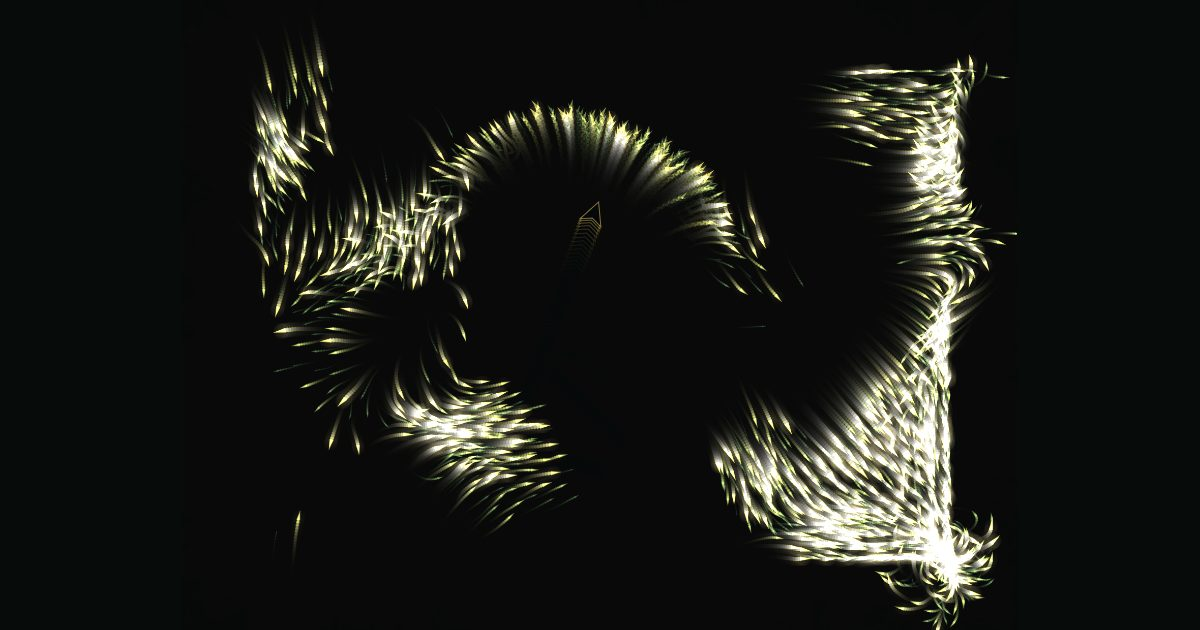
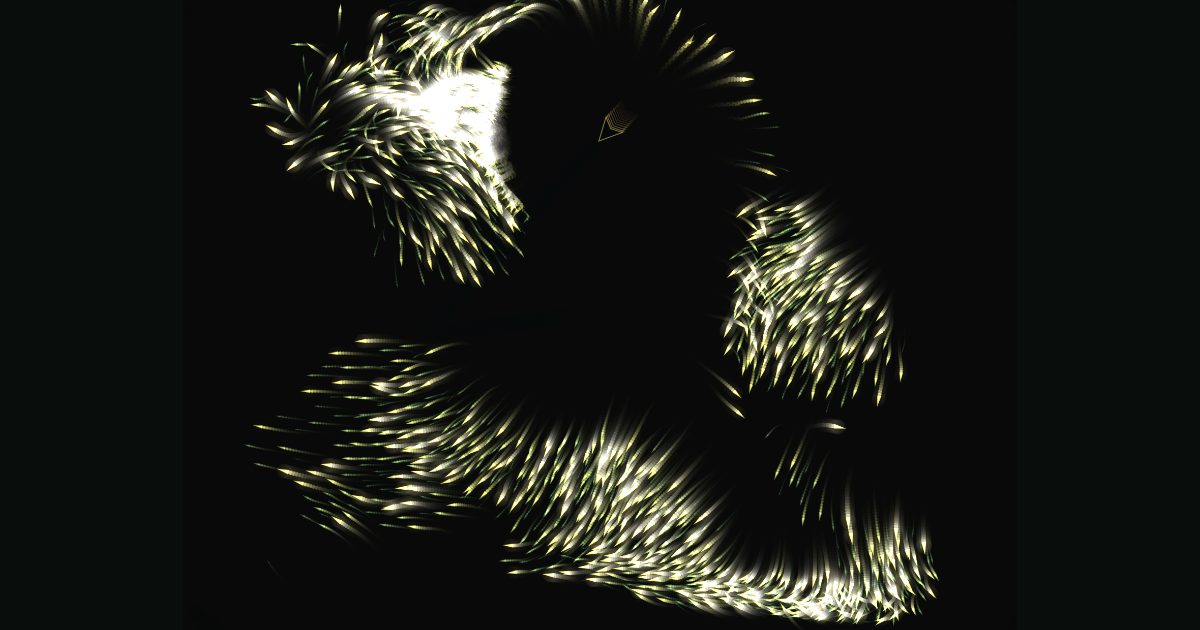
Murmuration: organic flock edges instead of straight walls
A constant steering push that switched on at a fixed 70 px margin stacked the
birds into straight walls along that line. The turn now grows linearly with
depth into a 100 px margin. Stage fits the window; new OG capture.

diff --git a/13-murmuration/index.html b/13-murmuration/index.html
@@ -38,6 +38,8 @@ h1{font-size:30px;margin:9px 0 2px;font-weight:600}
   box-shadow:0 0 0 1px rgba(232,196,94,.14),0 30px 80px -30px #000;background:#05080699}
 canvas{display:block;max-width:100%;height:auto;cursor:crosshair;touch-action:none}
 .stage{max-width:100%}
+/* cap the stage by the viewport height, so the piece and the first row of controls fit on one screen */
+canvas{width:min(820px,max(300px,calc((100vh - 230px)*820/620)));width:min(820px,max(300px,calc((100svh - 230px)*820/620)))}
 /* short landscape phones: the touch-action:none canvas must not fill the viewport, or a swipe can never scroll the
    page. Cap the stage so ~120px of page stays outside it (aspect 1.3226: the canvas keeps its shape via max-width). */
 @media (max-height:500px){.stage{max-width:min(100%,calc((100vh - 120px)*1.3226));max-width:min(100%,calc((100svh - 120px)*1.3226))}}
@@ -85,7 +87,7 @@ real <b>starling murmuration</b> emerge with no leader at all.</p>
 const canvas=document.getElementById('c');
 const W=820,H=620;
 function fit(){const dpr=Math.min(window.devicePixelRatio||1,2);canvas.width=W*dpr;canvas.height=H*dpr;
-  canvas.style.width=W+'px';const x=canvas.getContext('2d');x.setTransform(dpr,0,0,dpr,0,0);return x;}
+  const x=canvas.getContext('2d');x.setTransform(dpr,0,0,dpr,0,0);return x;}
 const ctx=fit();
 
 /* ───────── tuning ───────── */
@@ -96,7 +98,7 @@ const MAXSPEED=3.1, MINSPEED=1.6, MAXFORCE=0.075;
 const FEAR_R=120, FEAR_R2=FEAR_R*FEAR_R;
 const W_SEP=1.7;          // base weights (alignment & cohesion scaled by sliders)
 let   W_ALI=1.2, W_COH=1.0;
-const MARGIN=70, TURN=0.22;   // soft wrap-back from edges
+const MARGIN=100, TURN=0.22;  // soft wrap-back from edges: the turn ramps up across this margin
 
 /* ───────── flock state (struct-of-arrays) ───────── */
 let N=2500;
@@ -236,11 +238,12 @@ function simulate(){
       }
     }
 
-    // edge steering — gentle turn back so the flock stays on stage (no hard wrap snap)
-    if(x<MARGIN)      ax+=TURN;
-    else if(x>W-MARGIN) ax-=TURN;
-    if(y<MARGIN)      ay+=TURN;
-    else if(y>H-MARGIN) ay-=TURN;
+    // edge steering — gentle turn back so the flock stays on stage (no hard wrap snap). The turn grows with depth
+    // into the margin; a constant turn that switched on at one line stacked the birds into straight walls there.
+    if(x<MARGIN)      ax+=TURN*(MARGIN-x)/MARGIN;
+    else if(x>W-MARGIN) ax-=TURN*(x-(W-MARGIN))/MARGIN;
+    if(y<MARGIN)      ay+=TURN*(MARGIN-y)/MARGIN;
+    else if(y>H-MARGIN) ay-=TURN*(y-(H-MARGIN))/MARGIN;
 
     // integrate velocity, clamp to maxSpeed (and a floor so birds never stall)
     let nvx=vx[i]+ax, nvy=vy[i]+ay;
